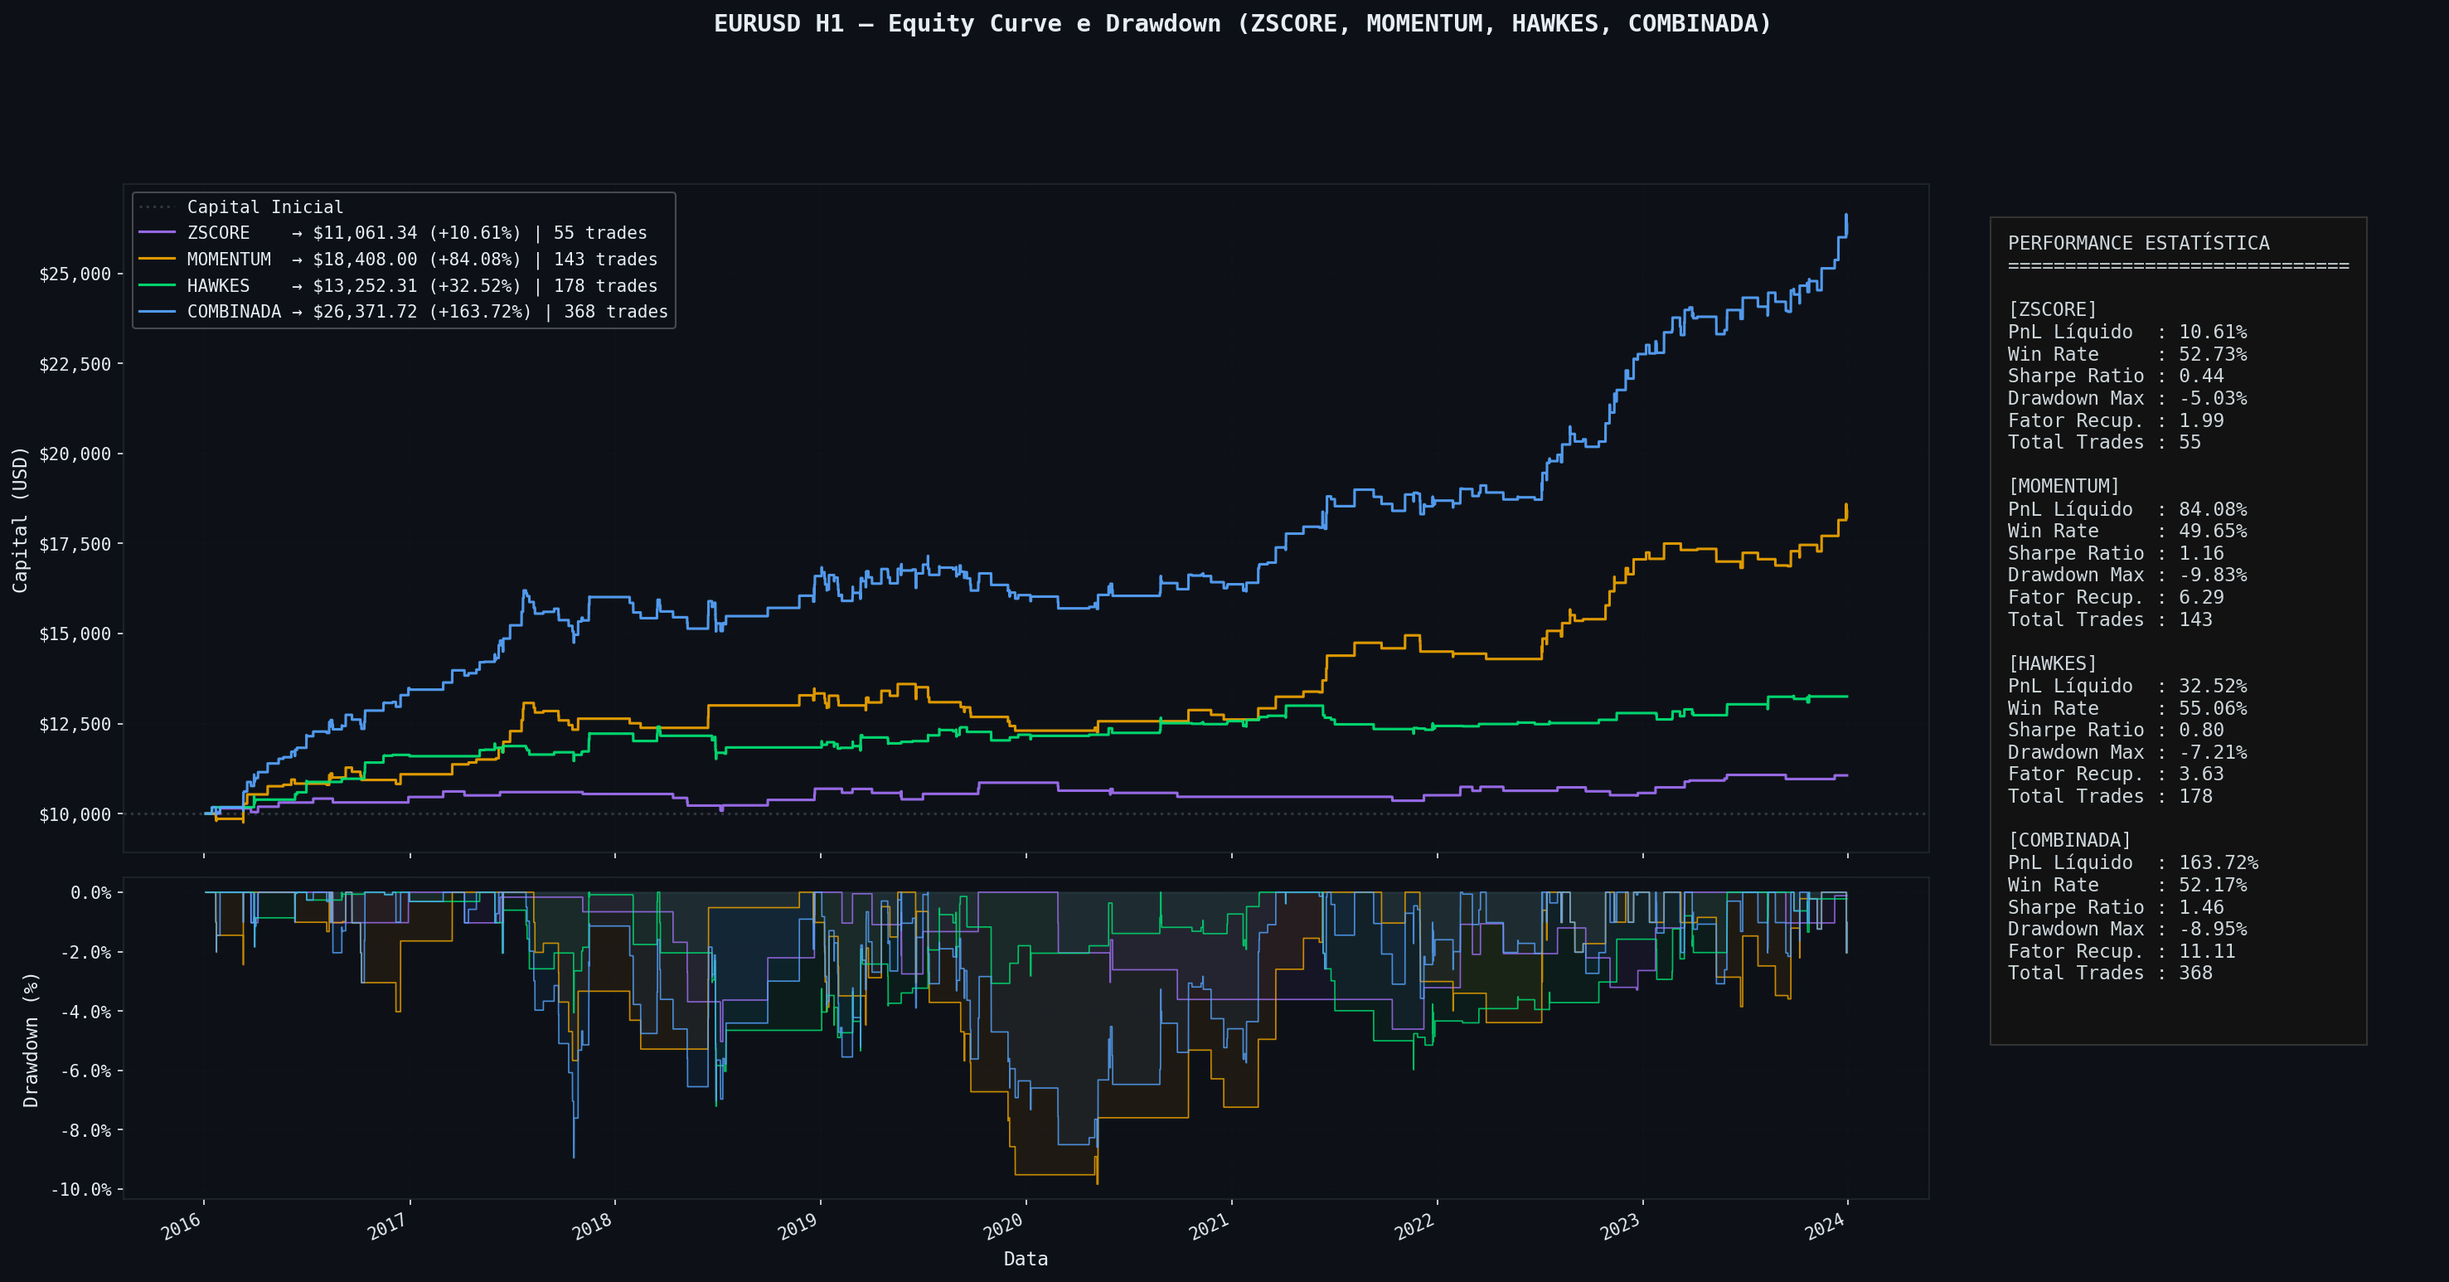
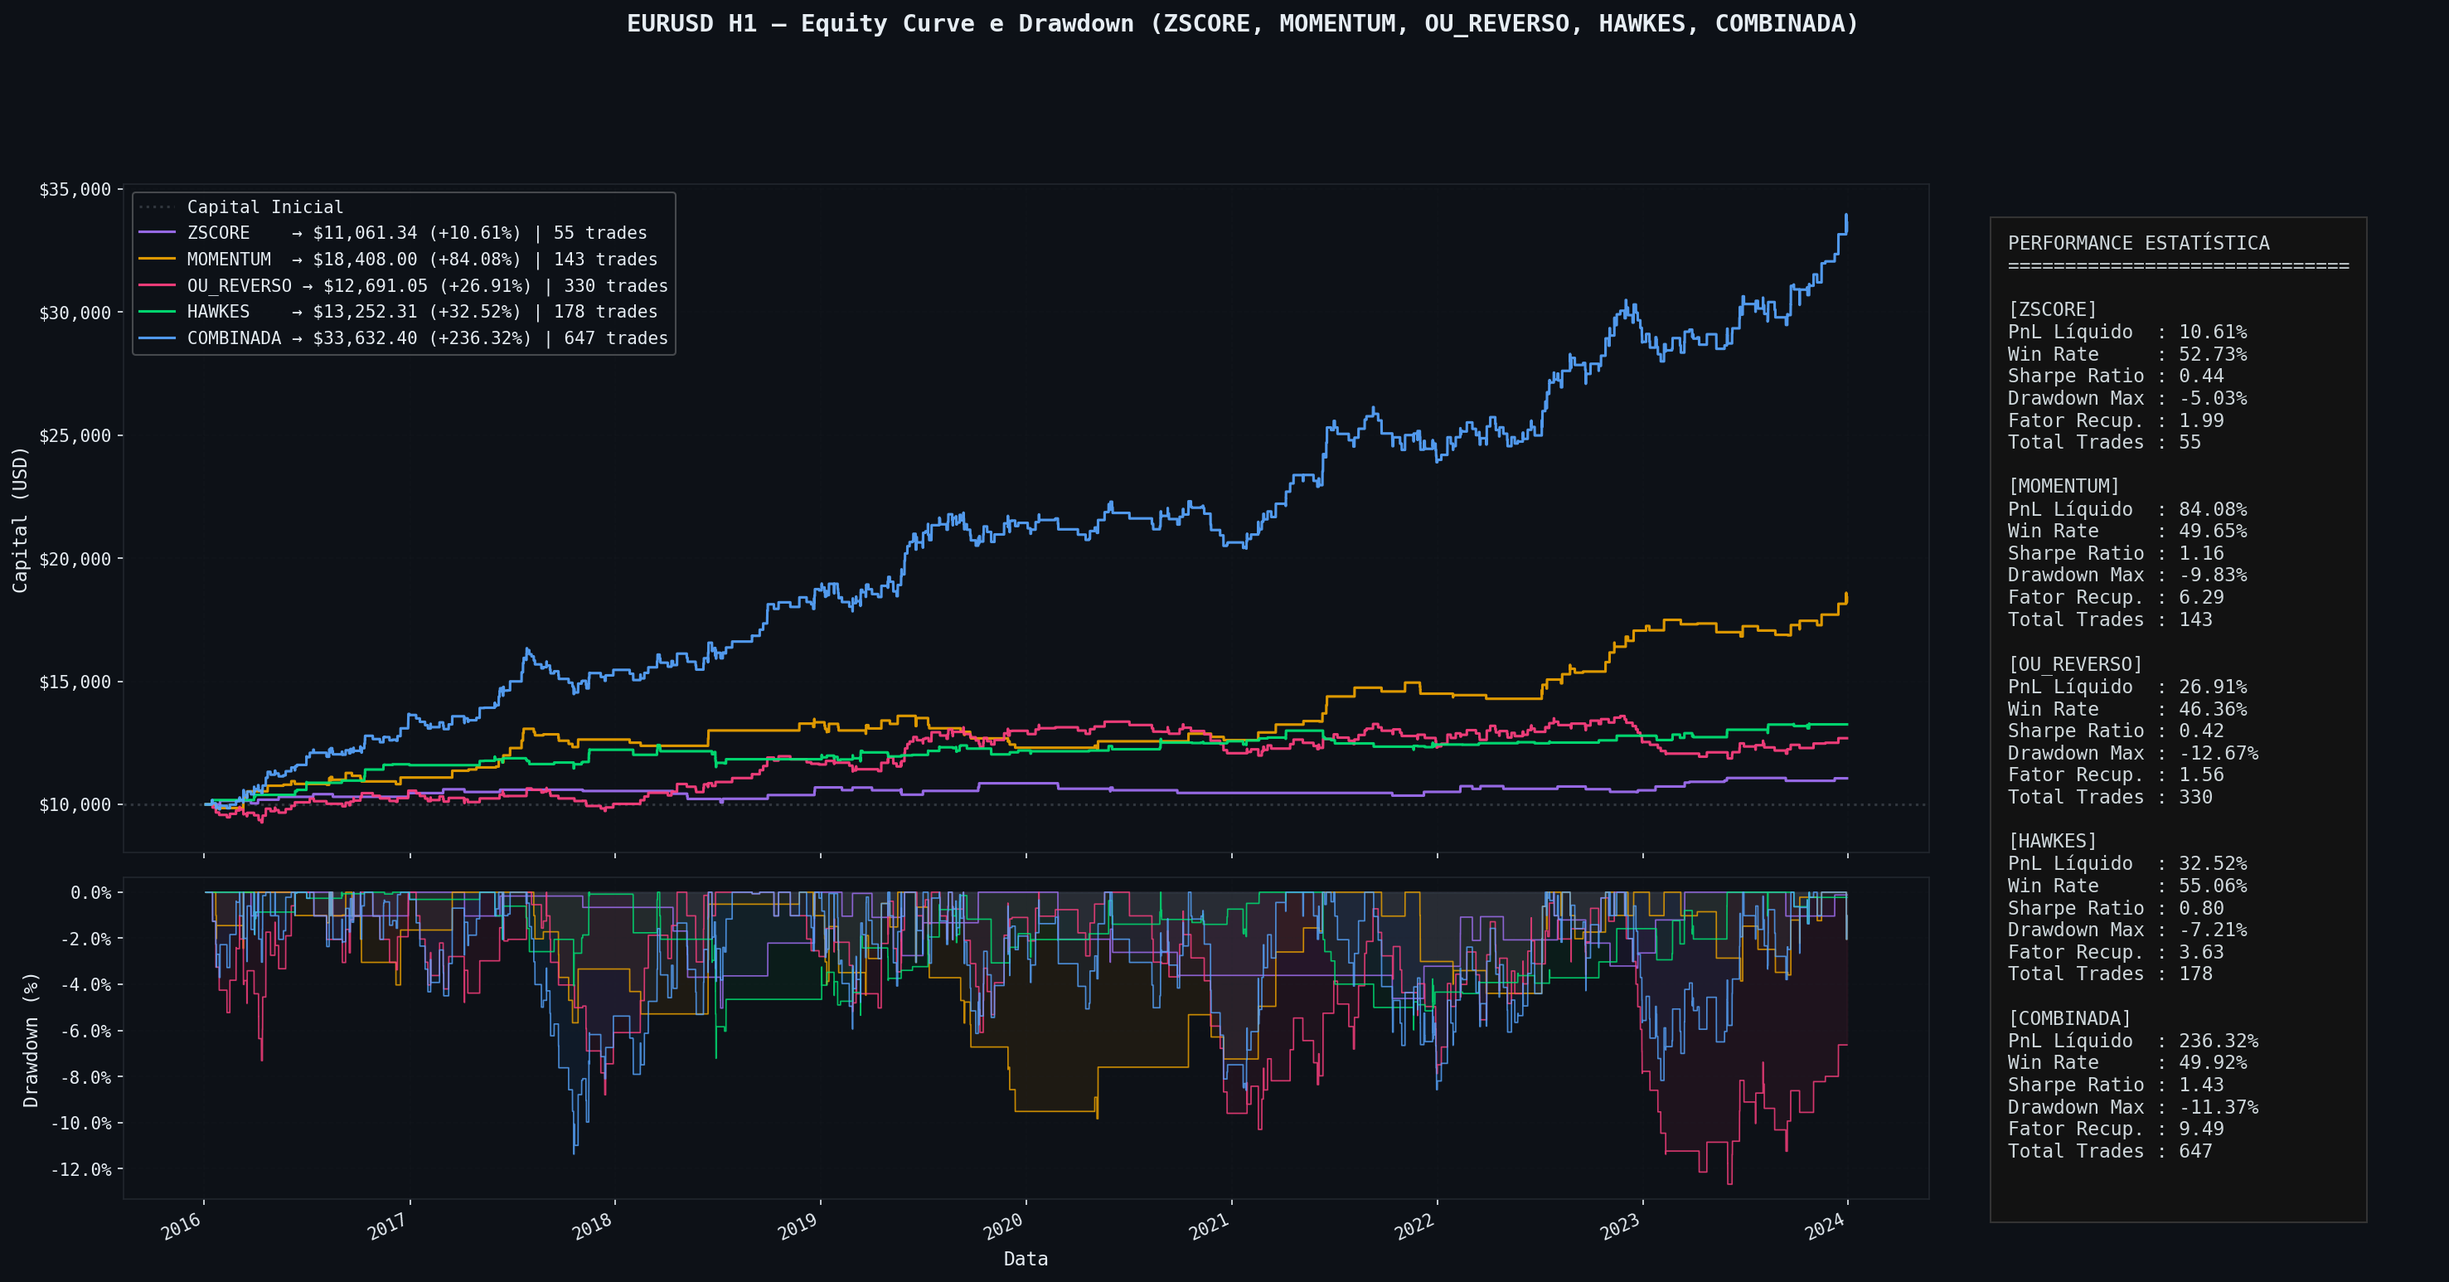
28052026.0950

diff --git a/quant_eurusd/backtest.py b/quant_eurusd/backtest.py
@@ -78,6 +78,7 @@ DIR_PROJETO_V1 = DIR_ATUAL.parent / "quant_eurusd"
 PARQUET_ZSCORE   = DIR_PROJETO_V2 / "data" / "eurusd_h1_zscore.parquet"
 PARQUET_MOMENTUM = DIR_PROJETO_V2 / "data" / "eurusd_h1_momentum.parquet"
 PARQUET_HAWKES       = DIR_PROJETO_V2 / "data" / "eurusd_h1_hawkes.parquet"
+PARQUET_OU_REVERSO   = DIR_PROJETO_V2 / "data" / "eurusd_h1_ou_reverso.parquet"
 
 # Parâmetros de Simulação
 CAPITAL_INICIAL    = 10_000.0   # USD
@@ -107,6 +108,8 @@ COR_DD_Z = "#503080"
 COR_DD_M = "#805000"
 COR_DD_H = "#006030"
 COR_DD_C = "#1E4F8A"
+COR_OU_REVERSO = "#FF4081"   # Magenta/Pink
+COR_DD_OU      = "#802040"
 
 # Períodos de regimes macroeconômicos
 PERIODOS = {
@@ -177,8 +180,10 @@ def verificar_saida_candle(
     tp_preco: float,
     zscore: Optional[float] = None,
     hawkes_lambda_norm: Optional[float] = None,
+    ou_zscore: Optional[float] = None,
     usar_zscore_exit: bool = False,
     usar_hawkes_exit: bool = False,
+    usar_ou_exit: bool = False,
 ) -> Tuple[bool, float, str]:
     """
     Verifica se houve batida de SL, TP ou saída neutra (Z-Score ou OU).
@@ -195,6 +200,9 @@ def verificar_saida_candle(
         if usar_hawkes_exit and hawkes_lambda_norm is not None and not math.isnan(hawkes_lambda_norm):
             if hawkes_lambda_norm < 0.6:
                 return True, close, "HAWKES_NEUTRO"
+        if usar_ou_exit and ou_zscore is not None and not math.isnan(ou_zscore):
+            if -0.3 <= ou_zscore <= 0.3:
+                return True, close, "OU_NEUTRO"
                 
     elif direcao == -1:  # SHORT
         if high >= sl_preco:
@@ -207,6 +215,9 @@ def verificar_saida_candle(
         if usar_hawkes_exit and hawkes_lambda_norm is not None and not math.isnan(hawkes_lambda_norm):
             if hawkes_lambda_norm < 0.6:
                 return True, close, "HAWKES_NEUTRO"
+        if usar_ou_exit and ou_zscore is not None and not math.isnan(ou_zscore):
+            if -0.3 <= ou_zscore <= 0.3:
+                return True, close, "OU_NEUTRO"
                 
     return False, 0.0, ""
 
@@ -220,6 +231,7 @@ def simular_estrategia(
     nome: str,
     usar_zscore_exit: bool = False,
     usar_hawkes_exit: bool = False,
+    usar_ou_exit: bool = False,
     is_combinada: bool = False,
 ) -> List[Operacao]:
     """
@@ -247,9 +259,12 @@ def simular_estrategia(
     tp_m = df["tp_pips_momentum"].values.astype(np.float64)
     sl_o = df["sl_pips_hawkes"].values.astype(np.float64)
     tp_o = df["tp_pips_hawkes"].values.astype(np.float64)
+    sl_ou = df["sl_pips_ou_reverso"].values.astype(np.float64) if "sl_pips_ou_reverso" in df.columns else None
+    tp_ou = df["tp_pips_ou_reverso"].values.astype(np.float64) if "tp_pips_ou_reverso" in df.columns else None
     
     zscores = df["zscore"].values.astype(np.float64) if "zscore" in df.columns else None
     hawkes_lambda_norms = df["hawkes_lambda_norm"].values.astype(np.float64) if "hawkes_lambda_norm" in df.columns else None
+    ou_zscores = df["ou_zscore"].values.astype(np.float64) if "ou_zscore" in df.columns else None
     
     origens = df["origem_sinal"].values.astype(np.int8) if "origem_sinal" in df.columns else None
     
@@ -286,20 +301,23 @@ def simular_estrategia(
                 # Determinar quais saídas neutras monitorar dependendo da posição
                 z_val = zscores[i] if zscores is not None else None
                 o_val = hawkes_lambda_norms[i] if hawkes_lambda_norms is not None else None
+                ou_val = ou_zscores[i] if ou_zscores is not None else None
                 
                 u_z_exit = usar_zscore_exit
                 u_o_exit = usar_hawkes_exit
+                u_ou_exit = usar_ou_exit
                 
                 if is_combinada and posicao.motivo_saida == "":
                     # Na combinada, extraímos o comportamento da origem do trade
                     orig = posicao.estrategia  # Nós guardamos o sub-sistema aqui temporariamente
                     u_z_exit = (orig == "ZSCORE")
                     u_o_exit = (orig == "HAWKES")
+                    u_ou_exit = (orig == "OU_REVERSO")
                 
                 deve_fechar, preco_saida, motivo = verificar_saida_candle(
                     posicao.direcao, highs[i], lows[i], closes[i],
                     posicao.sl_preco, posicao.tp_preco,
-                    z_val, o_val, u_z_exit, u_o_exit
+                    z_val, o_val, ou_val, u_z_exit, u_o_exit, u_ou_exit
                 )
                 
                 if deve_fechar:
@@ -340,6 +358,10 @@ def simular_estrategia(
                     sl_pips = sl_m[i]
                     tp_pips = tp_m[i]
                     orig_nome = "MOMENTUM"
+                elif orig_s == 4:  # OU_REVERSO
+                    sl_pips = sl_ou[i]
+                    tp_pips = tp_ou[i]
+                    orig_nome = "OU_REVERSO"
             else:
                 if nome == "ZSCORE":
                     sl_pips = sl_z[i]
@@ -347,6 +369,9 @@ def simular_estrategia(
                 elif nome == "MOMENTUM":
                     sl_pips = sl_m[i]
                     tp_pips = tp_m[i]
+                elif nome == "OU_REVERSO" and sl_ou is not None:
+                    sl_pips = sl_ou[i]
+                    tp_pips = tp_ou[i]
                 elif nome == "HAWKES":
                     sl_pips = sl_o[i]
                     tp_pips = tp_o[i]
@@ -628,6 +653,7 @@ def gerar_grafico_equity_curves(
         "ZSCORE":    (COR_ZSCORE,    COR_DD_Z),
         "MOMENTUM":  (COR_MOMENTUM,  COR_DD_M),
         "HAWKES":    (COR_HAWKES,    COR_DD_H),
+        "OU_REVERSO":(COR_OU_REVERSO, COR_DD_OU),
         "COMBINADA": (COR_COMBINADA, COR_DD_C)
     }
     
@@ -744,7 +770,7 @@ def processar_pipeline_backtest():
     Controla o carregamento dos parquets, mesclagem das colunas e execução de backtests.
     """
     logger.info("Verificando bases de dados do ZScore, Momentum e Ornstein-Uhlenbeck...")
-    for p in [PARQUET_ZSCORE, PARQUET_MOMENTUM, PARQUET_HAWKES]:
+    for p in [PARQUET_ZSCORE, PARQUET_MOMENTUM, PARQUET_HAWKES, PARQUET_OU_REVERSO]:
         if not p.exists():
             raise FileNotFoundError(
                 f"Parquet necessário não encontrado em: {p.name}\n"
@@ -755,6 +781,7 @@ def processar_pipeline_backtest():
     df_z = pd.read_parquet(PARQUET_ZSCORE, engine="pyarrow")
     df_m = pd.read_parquet(PARQUET_MOMENTUM, engine="pyarrow")
     df_h = pd.read_parquet(PARQUET_HAWKES, engine="pyarrow")
+    df_ou = pd.read_parquet(PARQUET_OU_REVERSO, engine="pyarrow")
     
     # Mesclar dados de forma segura
     df = df_z.copy()
@@ -767,11 +794,16 @@ def processar_pipeline_backtest():
     df["sl_pips_momentum"] = df_m["sl_pips"].reindex(df.index)
     df["tp_pips_momentum"] = df_m["tp_pips"].reindex(df.index)
     
-    # Adicionar indicadores e stop loss de Ornstein-Uhlenbeck
+    # Adicionar indicadores e stop loss de Ornstein-Uhlenbeck (Hawkes)
     df["sinal_hawkes"] = df_h["sinal_hawkes"].reindex(df.index, fill_value=0)
     df["hawkes_lambda_norm"] = df_h["hawkes_lambda_norm"].reindex(df.index)
     df["sl_pips_hawkes"] = df_h["sl_pips"].reindex(df.index)
     df["tp_pips_hawkes"] = df_h["tp_pips"].reindex(df.index)
+    
+    df["sinal_ou_reverso"] = df_ou["sinal_ou_reverso"].reindex(df.index, fill_value=0)
+    df["ou_zscore"] = df_ou["ou_zscore"].reindex(df.index)
+    df["sl_pips_ou_reverso"] = df_ou["sl_pips"].reindex(df.index)
+    df["tp_pips_ou_reverso"] = df_ou["tp_pips"].reindex(df.index)
     
     logger.info(f"Dados unificados com sucesso! {len(df):,} candles H1 no período de backtest.")
     
@@ -783,6 +815,7 @@ def processar_pipeline_backtest():
     s_z = df["sinal_zscore"].values
     s_m = df["sinal_momentum"].values
     s_h = df["sinal_hawkes"].values
+    s_ou = df["sinal_ou_reverso"].values
     
     for i in range(len(df)):
         if s_z[i] != 0:
@@ -791,6 +824,9 @@ def processar_pipeline_backtest():
         elif s_m[i] != 0:
             sinal_comb[i] = s_m[i]
             origem_sinal[i] = 3
+        elif s_ou[i] != 0:
+            sinal_comb[i] = s_ou[i]
+            origem_sinal[i] = 4
         elif s_h[i] != 0:
             sinal_comb[i] = s_h[i]
             origem_sinal[i] = 1
@@ -800,6 +836,7 @@ def processar_pipeline_backtest():
     
     n_z_tot = (s_z != 0).sum()
     n_m_tot = (s_m != 0).sum()
+    n_ou_tot = (s_ou != 0).sum()
     n_comb_tot = (sinal_comb != 0).sum()
     
     logger.info(f"Sinais na base: ZScore={n_z_tot} | Momentum={n_m_tot} | Combinada={n_comb_tot}")
@@ -808,16 +845,18 @@ def processar_pipeline_backtest():
     ops_z = simular_estrategia(df, "sinal_zscore", "ZSCORE", usar_zscore_exit=True)
     ops_m = simular_estrategia(df, "sinal_momentum", "MOMENTUM", usar_zscore_exit=False)
     ops_h = simular_estrategia(df, "sinal_hawkes", "HAWKES", usar_hawkes_exit=True)
+    ops_ou = simular_estrategia(df, "sinal_ou_reverso", "OU_REVERSO", usar_ou_exit=True)
     ops_c = simular_estrategia(df, "sinal_combinado", "COMBINADA", is_combinada=True)
     
     # ── Construção de Equity Curves ──
     eq_z = construir_equity_curve(ops_z, df.index)
     eq_m = construir_equity_curve(ops_m, df.index)
     eq_h = construir_equity_curve(ops_h, df.index)
+    eq_ou = construir_equity_curve(ops_ou, df.index)
     eq_c = construir_equity_curve(ops_c, df.index)
     
-    equity_curves = {"ZSCORE": eq_z, "MOMENTUM": eq_m, "HAWKES": eq_h, "COMBINADA": eq_c}
-    todas_operacoes = {"ZSCORE": ops_z, "MOMENTUM": ops_m, "HAWKES": ops_h, "COMBINADA": ops_c}
+    equity_curves = {"ZSCORE": eq_z, "MOMENTUM": eq_m, "OU_REVERSO": eq_ou, "HAWKES": eq_h, "COMBINADA": eq_c}
+    todas_operacoes = {"ZSCORE": ops_z, "MOMENTUM": ops_m, "OU_REVERSO": ops_ou, "HAWKES": ops_h, "COMBINADA": ops_c}
     
     # ── Métricas Completas de Performance ──
     print(f"\n" + "█" * 70)
@@ -825,7 +864,7 @@ def processar_pipeline_backtest():
     print("█" * 70)
     
     todas_metricas = {}
-    for nome in ["ZSCORE", "MOMENTUM", "HAWKES", "COMBINADA"]:
+    for nome in ["ZSCORE", "MOMENTUM", "OU_REVERSO", "HAWKES", "COMBINADA"]:
         ops = todas_operacoes[nome]
         eq = equity_curves[nome]
         m = calcular_metricas_performance(ops, eq, nome)

diff --git a/quant_eurusd/ou_reverso_eurusd.py b/quant_eurusd/ou_reverso_eurusd.py
@@ -59,7 +59,7 @@ DIR_DATA    = DIR_PROJETO / "data"
 DIR_GRAFICOS = DIR_PROJETO / "graficos"
 
 PARQUET_ENTRADA = DIR_DATA / "eurusd_h1_completo.parquet"
-PARQUET_SAIDA   = DIR_DATA / "eurusd_h1_ou.parquet"
+PARQUET_SAIDA   = DIR_DATA / "eurusd_h1_ou_reverso.parquet"
 CAMINHO_GRAFICO = DIR_GRAFICOS / "ou_sinais.png"
 
 # =============================================================================
@@ -284,8 +284,8 @@ def calcular_gestao_risco(df: pd.DataFrame) -> pd.DataFrame:
         
     vr = df["log_return"].rolling(window=50, min_periods=50).std(ddof=1)
     df["vr_pips"] = (vr * df["Close"] * 10000.0).astype(np.float32)
-    df["sl_pips"] = (2.0 * df["vr_pips"]).astype(np.float32)
-    df["tp_pips"] = (3.0 * df["vr_pips"]).astype(np.float32)
+    df["sl_pips"] = (3.0 * df["vr_pips"]).astype(np.float32)
+    df["tp_pips"] = (2.0 * df["vr_pips"]).astype(np.float32)
     
     return df
 
@@ -308,14 +308,14 @@ def gerar_sinais_ou(df: pd.DataFrame, bloqueados_ou_invalido: int) -> tuple:
     sinal = np.zeros(len(df), dtype=np.int8)
     
     # LONG (+1) se ou_zscore <= -2.0
-    cond_long = cond_operacional & (df["ou_zscore"] <= -2.0)
+    cond_long = cond_operacional & (df["ou_zscore"] >= 2.0)
     sinal[cond_long] = 1
     
     # SHORT (-1) se ou_zscore >= 2.0
-    cond_short = cond_operacional & (df["ou_zscore"] >= 2.0)
+    cond_short = cond_operacional & (df["ou_zscore"] <= -2.0)
     sinal[cond_short] = -1
     
-    df["sinal_ou"] = sinal
+    df["sinal_ou_reverso"] = sinal
     
     # --- Estatísticas de Bloqueio ---
     # Sinais potenciais (Z esticado no horário operacional e processo OU válido)
@@ -502,8 +502,8 @@ def gerar_grafico_ou(df: pd.DataFrame):
     # -------------------------------------------------------------------------
     ax1.plot(times, df_plot["Close"], color=cor_neutra, linewidth=1.2, label='Preço Close')
     
-    compras = df_plot[df_plot["sinal_ou"] == 1]
-    vendas = df_plot[df_plot["sinal_ou"] == -1]
+    compras = df_plot[df_plot["sinal_ou_reverso"] == 1]
+    vendas = df_plot[df_plot["sinal_ou_reverso"] == -1]
     
     ax1.scatter(compras.index, compras["Close"] - 0.0010, color=cor_compra, marker='^', s=50, label='COMPRA (LONG)', zorder=5)
     ax1.scatter(vendas.index, vendas["Close"] + 0.0010, color=cor_venda, marker='v', s=50, label='VENDA (SHORT)', zorder=5)
@@ -620,7 +620,7 @@ def processar_pipeline_ou(forcar: bool = False) -> pd.DataFrame:
         
         # Gerar estatísticas de sinais
         op_window = verificar_janela_operacional(df.index)
-        sinal = df["sinal_ou"].values
+        sinal = df["sinal_ou_reverso"].values
         potenciais_validos = df["ou_valido"] & (df["ou_halflife"] >= 1.0) & (df["ou_halflife"] <= 50.0) & ((df["ou_zscore"] <= -2.0) | (df["ou_zscore"] >= 2.0))
         bloqueados_horario = potenciais_validos & (~op_window)
         
@@ -716,7 +716,7 @@ def gerar_tabela_parametros():
     plt.style.use('dark_background')
     fig, ax = plt.subplots(figsize=(10, 5))
     ax.axis("off")
-    dados = [[k, str(v)] for k, v in {'Estratégia': 'Ornstein-Uhlenbeck', 'Regime Operacional': 'Reversão', 'Hurst Filtro': '< 0.45', 'Meia-Vida': 'Dinâmica', 'Limiar Z-Score OU': 2.5, 'Stop Loss (Risco)': '2.0x Vol', 'Take Profit (Alvo)': '3.0x Vol'}.items()]
+    dados = [[k, str(v)] for k, v in {'Estratégia': 'OU Reverso', 'Regime Operacional': 'Reversão', 'Hurst Filtro': '< 0.45', 'Meia-Vida': 'Dinâmica', 'Limiar Z-Score OU': 2.5, 'Stop Loss (Risco)': '3.0x Vol', 'Take Profit (Alvo)': '2.0x Vol'}.items()]
     tabela = ax.table(cellText=dados, colLabels=["Métrica", "Valor Otimizado"], loc="center", cellLoc="left")
     tabela.auto_set_font_size(False)
     tabela.set_fontsize(12)
@@ -733,7 +733,7 @@ def gerar_tabela_parametros():
                 cell.set_text_props(weight="bold", color="#82AAFF")
     fig.suptitle("Configuração de Hiperparâmetros — OU", color="#FFFFFF", fontsize=16, fontweight="bold", y=0.95)
     plt.tight_layout()
-    caminho = DIR_GRAFICOS / "parametros_ou.png"
+    caminho = DIR_GRAFICOS / "parametros_ou_reverso_eurusd.png"
     plt.savefig(caminho, dpi=150, facecolor="#121212")
     plt.close()
     logger.info(f"Tabela de parâmetros salva em: {caminho}")
@@ -755,6 +755,15 @@ if __name__ == "__main__":
     print("█   ESTRATÉGIA MEAN REVERSION ORNSTEIN-UHLENBECK EURUSD H1     █")
     print("█   Operação: Baseada em Z-Score do Processo OU Interno         █")
     print("█   Independente de Hurst e Z-Score Clássico                    █")
+    print("█" + " " * 68 + "█")
+    print("█" * 70)
+    
+    try:
+        processar_pipeline_ou(args.forcar)
+        print("✅ Módulo ou_strategy.py executado com sucesso!\n")
+    except Exception as e:
+        logger.exception("Erro crítico durante a execução do módulo ou_strategy.py:")
+        sys.exit(1)
     print("█" + " " * 68 + "█")
     print("█" * 70)
     

diff --git a/quant_eurusd/backtest_individual.py b/quant_eurusd/backtest_individual.py
@@ -784,7 +784,7 @@ def processar_pipeline_backtest(estrategia: str):
         col_sinal, 
         estrategia, 
         usar_zscore_exit=(estrategia == "ZSCORE"), 
-        usar_ou_exit=(estrategia == "OU" or estrategia == "HAWKES"),
+        usar_ou_exit=(estrategia == "OU" or estrategia == "HAWKES" or estrategia == "OU_REVERSO"),
         usar_wavelet_exit=(estrategia == "WAVELET"),
         usar_curvatura_exit=(estrategia == "CURVATURA")
     )
